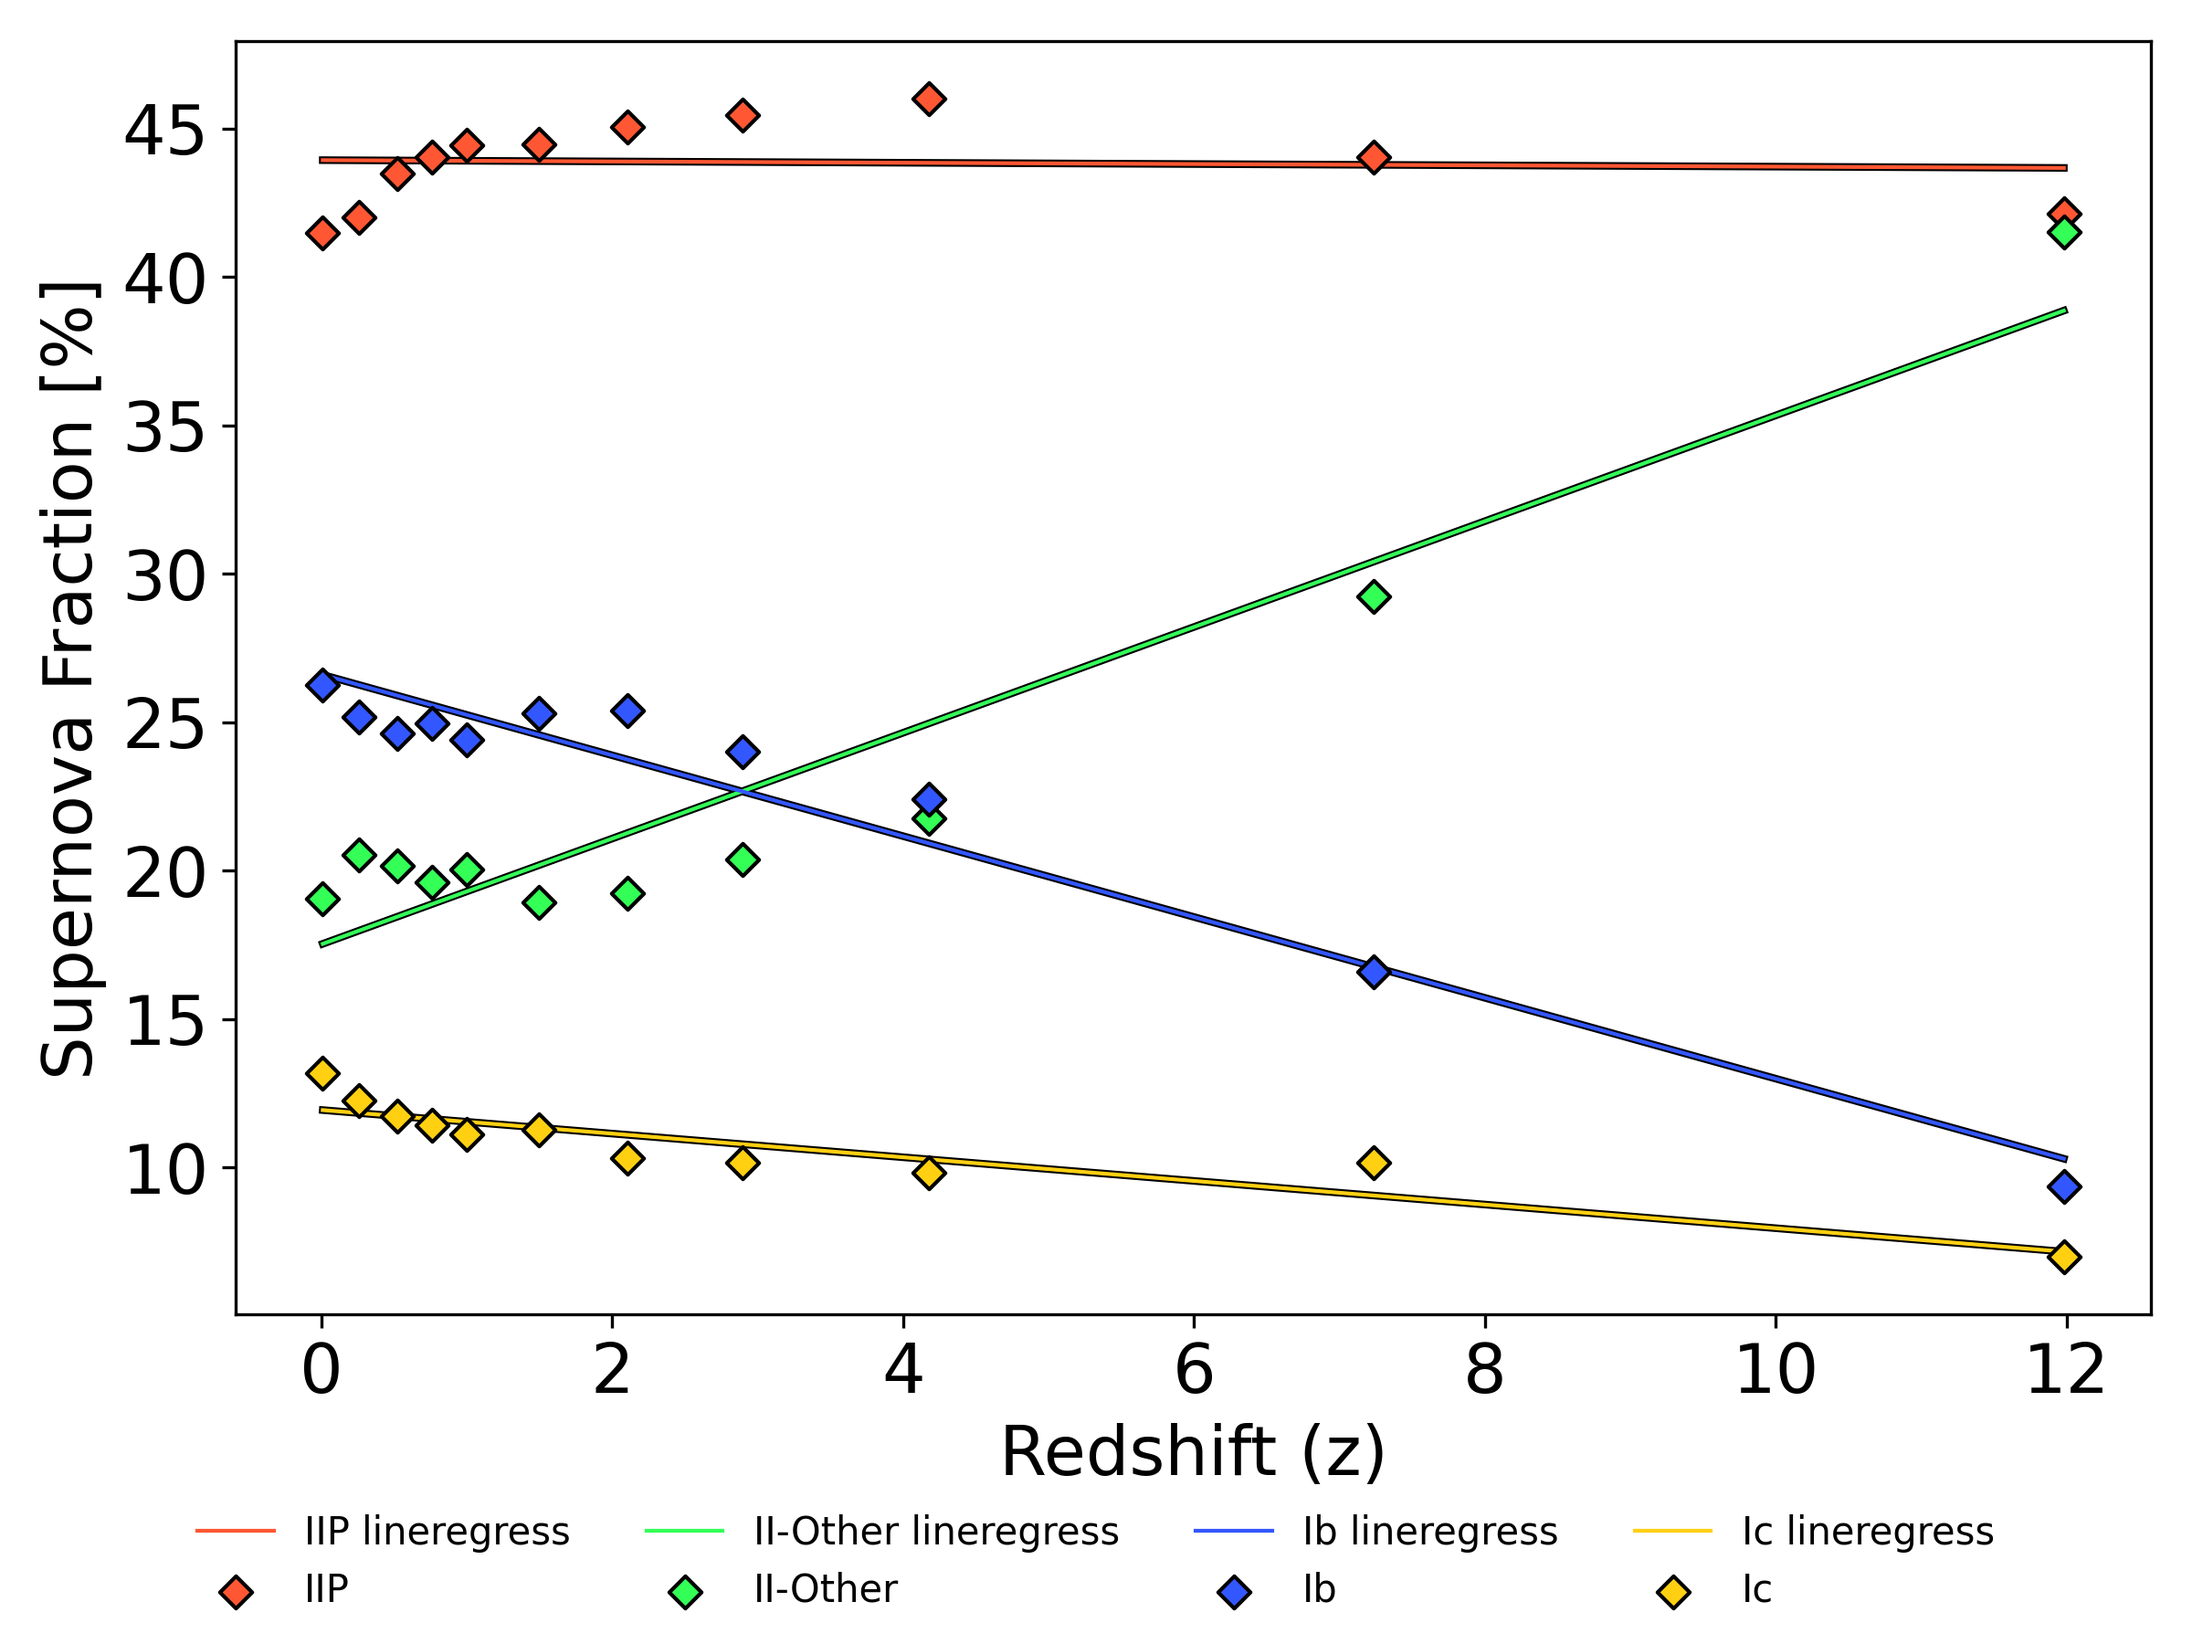
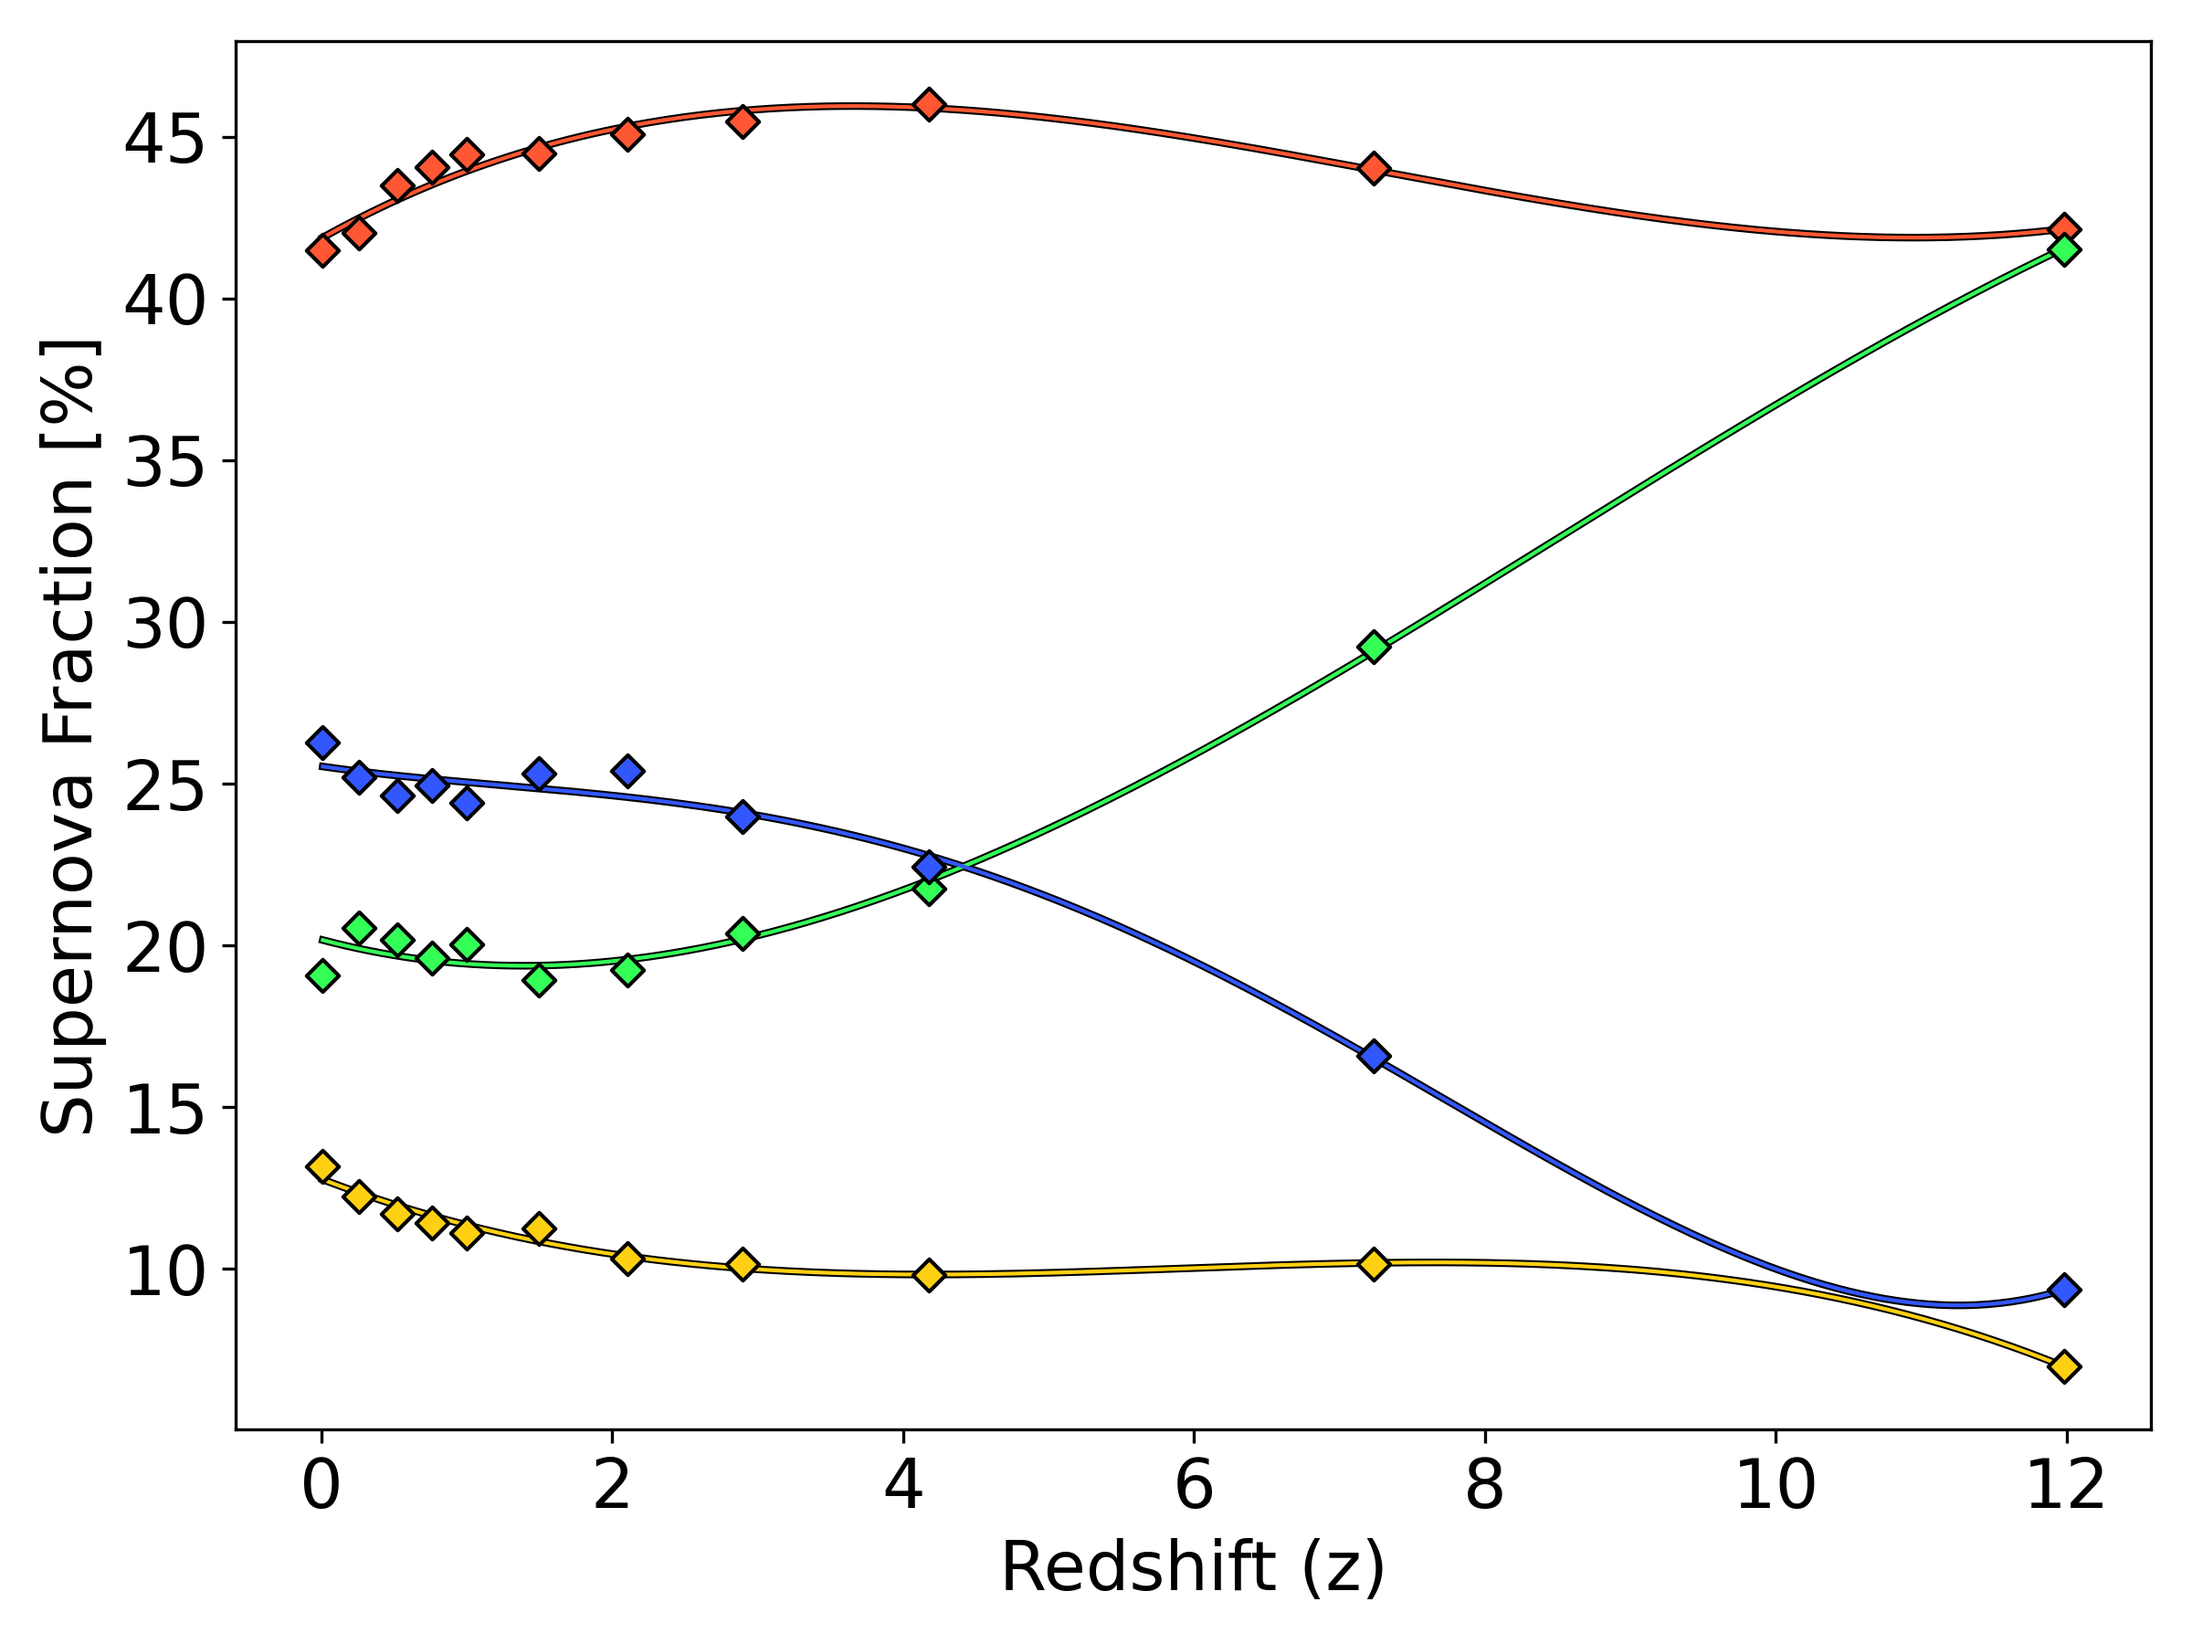
new aic for fractions

diff --git a/halo.py b/halo.py
@@ -41,11 +41,12 @@ from sklearn.metrics import mean_absolute_error,mean_squared_error, root_mean_sq
 from scipy import stats
 import scipy.optimize as sco
 from pysr import PySRRegressor
+from itertools import combinations
 
 from Helpers.AICHelper import AICHelper
 from Helpers.PolyHelper import PolyHelper
 
-aich = AICHelper()
+aic = AICHelper()
 poly = PolyHelper()
 
 base = os.getcwd()
@@ -349,38 +350,16 @@ def run_cosmic():
         #slope, intercept, r, p, std_err = stats.linregress(z, ratio)
         #regress = linear(z, slope, intercept)
 
-        x_aic, y_aic = apply_aic(x, y, e)
-
-        p1 = np.polyfit(x, y, 1)
-        p2 = np.polyfit(x, y, 2)
-        p3 = np.polyfit(x, y, 3)
-        p4 = np.polyfit(x, y, 4)
-
-        p1_fit = poly.polynomialCalc(p1, x_lin)
-        p2_fit = poly.polynomialCalc(p2, x_lin)
-        p3_fit = poly.polynomialCalc(p3, x_lin)
-        p4_fit = poly.polynomialCalc(p4, x_lin)
+        x_aic, y_aic = aic.apply_aic(x, y, e)
 
         ax.errorbar(z, ratio, yerr=err, color='black', fmt='D', capsize=5, zorder=30)
         ax.scatter(z, ratio, label=sn, color=colors[idx], marker='D', edgecolors='black', zorder=40)
         
         #ax.plot(z, regress, color='black', linewidth=2, zorder=10) 
         #ax.plot(z, regress, color=colors[idx], linewidth=1, zorder=20, label=f"{sn} lineregress") 
-        """
-        #ax.plot(x_lin, y_pred, color=colors[idx], linewidth=1, zorder=40, label=f"{sn} PySr") 
-        #ax.plot(x_lin, y_pred, color='black', linewidth=2, zorder=30) 
-
-        #ax.plot(x_lin, y_c3, color=colors1[idx], linewidth=2, zorder=20, label=f"{sn} 3") 
-        #ax.plot(x_lin, y_c5, color=colors2[idx], linewidth=2, zorder=20, label=f"{sn} 5") 
-        #ax.plot(x_lin, y_c8, color=colors3[idx], linewidth=2, zorder=20, label=f"{sn} 8") 
-        #ax.plot(x_lin, y_c8, color='black', linewidth=3, zorder=10, label=f"{sn} 8")
-        """
 
         ax.plot(x_aic, y_aic, color=colors[idx], linewidth=1, zorder=20, label=f"{sn} aic") 
         ax.plot(x_aic, y_aic, color='black', linewidth=2, zorder=10) 
-        ax.plot(x_lin, p2_fit, color=colors[idx], linewidth=1, zorder=20, label=f"{sn} aic 2") 
-        ax.plot(x_lin, p3_fit, color=colors[idx], linewidth=1, zorder=20, label=f"{sn} aic 3") 
-        #ax.plot(x_lin, p4_fit, color=colors[idx], linewidth=1, zorder=20, label=f"{sn} aic 4") 
 
         # calculate average across all redshifts
         sn_ratio = np.mean(ratio)
@@ -390,31 +369,34 @@ def run_cosmic():
         
     ax.set_xlabel("Redshift (z)", fontsize=18)
     ax.set_ylabel("Supernova Fraction [%]", fontsize=18)
-    ax.set_ylim(0,100)
+    #ax.set_ylim(0,100)
     ax.tick_params(axis='both', labelsize=18)
 
     handles, labels = ax.get_legend_handles_labels()
-    fig.legend(handles, labels, loc="lower center", ncol=len(sn_type))
-    fig.tight_layout(rect=[0, 0.2, 1, 1])
-    fig.savefig(f"Data/Images/TNG/ratio/mass/cosmic.png", dpi=300)
+    fig.legend(handles, labels, loc="lower center", ncol=len(sn_type), fontsize=18)
+    fig.tight_layout(rect=[0, 0.3, 1, 1])
+    fig.savefig(f"Data/Images/TNG/ratio/mass/cosmic_halo.png", dpi=300)
     return 0
 
-
-def apply_aic(x, y, errs):
+'''
+def apply_aic(x, y, errs, additional_checks=False):
     # Maximum order of magnitude is 4 (quartic)
-    prevCoeffs = [0, 0, 0, 0, 0]
-    prevErrCoeffs = [0, 0, 0, 0, 0]
     x_plot = np.linspace(min(x), max(x), 300)
-    selectedOrder = 1
 
     # set up first aic 
     # linear 
     p0 = np.polyfit(x, y, 1)
     initial = poly.polynomialCalc(p0, x)
     rss = aich.rss(y, initial)
+    max_aic = aich.aic(2, len(y), rss)
     prev_aic = aich.aic(2, len(y), rss)
     prev_plot = poly.polynomialCalc(p0, x_plot)
 
+    selected_plot = prev_plot
+    aic_values = []
+    aic_values.append(max_aic)
+
+    final_order = 1
     for order in range(2,5):
         # initial guess with polyfit
         coeffs = np.polyfit(x, y, order)
@@ -427,18 +409,62 @@ def apply_aic(x, y, errs):
         rss = aich.rss(y, poly_values)
         aic = aich.aic(order + 1, len(y), rss)
         prob = aich.probability(prev_aic, aic)
+        aic_values.append(aic)
         
-        print(f"    Current Order {order}\n       Simple:  {prev_aic} \n       Complex:  {aic} \n       Prob:  {prob}")
+        #print(f"    Current Order {order}\n       Simple:  {max_aic} \n       Complex:  {aic} \n       Prob:  {prob}")
 
         if prob > 0.95:
             # reject complex model 
-            return x_plot, prev_plot
+            final_order = order - 1
+            pass
+            #return x_plot, prev_plot
         else:
             # accept complex model, move on 
+            final_order = order
             prev_aic = aic
-            prev_plot = poly_plot
+            selected_plot = poly_plot
 
-    return x_plot, poly_plot
+    if additional_checks == True:
+        # check more combinations than just against the linear fit
+        for i, j in combinations(range(len(aic_values)), 2):
+            max_a = aic_values[i]
+            min_a = aic_values[j]
+            prob = aich.probability(max_a, min_a)
+            #print(f'Order:{i+1}, {max_a}, Order:{j+1}, {min_a}, Prob:{prob}')  # apply your formula here
+
+            if prob < 0.95:
+                # check against higher order
+                prob = aich.probability(aic_values[j], aic_values[j+1])
+                if prob < 0.95:
+                    # accept as new again
+                    coeffs = np.polyfit(x, y, j+2)
+                    selected_plot = poly.polynomialCalc(coeffs, x_plot)
+                    final_order = j+2
+                    #print(f'Accepted order - {j+2}')
+                else:
+                    # accept current j as the new order 
+                    coeffs = np.polyfit(x, y, j+1)
+                    selected_plot = poly.polynomialCalc(coeffs, x_plot)
+                    final_order = j+1
+                    #print(f'Accepted order - {j+1}')
+                break
+                
+
+            # check higher orders against original
+            if (j-i > 1) and (prob < 0.95):
+                # order difference is greater than 1, and probability is good
+                # check the higher order against one lower to make sure it is better
+                prob = aich.probability(aic_values[i+1], min_a)
+                if prob < 0.95:
+                    # accept this as the new order 
+                    coeffs = np.polyfit(x, y, j+1)
+                    selected_plot = poly.polynomialCalc(coeffs, x_plot)
+                    final_order = j+1
+                    #print(f'Accepted order - {j+1}')
+                    break
+
+    print(f'Final Order: {final_order}')
+    return x_plot, selected_plot
 
     """
     probs = []
@@ -487,6 +513,7 @@ def apply_aic(x, y, errs):
     """
 
     return coeffs, errCoeffs, selectedOrder, poly_plot, xPlot
+'''
 
 #run_redshift()
 run_cosmic()

diff --git a/Helpers/AICHelper.py b/Helpers/AICHelper.py
@@ -5,10 +5,12 @@ Once AIC values have been determined, generate a probability based on two AIC re
 
 # imports
 import numpy as np
+from Helpers.PolyHelper import PolyHelper
+from itertools import combinations
+poly = PolyHelper()
 
 # region AIC Helper
 class AICHelper():
-
     def __init__(self):
         pass
     
@@ -43,3 +45,90 @@ class AICHelper():
         if exponent > 709:
             return 1e10
         return np.exp(exponent)
+    
+    def apply_aic(self, x, y, errs=0, additional_checks=False):
+        # Maximum order of magnitude is 4 (quartic)
+        x_plot = np.linspace(min(x), max(x), 300)
+
+        # set up first aic as linear 
+        p0 = np.polyfit(x, y, 1)
+        initial = poly.polynomialCalc(p0, x)
+        rss = self.rss(y, initial)
+        max_aic = self.aic(2, len(y), rss)
+        prev_aic = self.aic(2, len(y), rss)
+        prev_plot = poly.polynomialCalc(p0, x_plot)
+        
+        # other variables
+        selected_plot = prev_plot
+        aic_values = []
+        aic_values.append(max_aic)
+        final_order = 1
+
+        for order in range(2,5):
+            # initial guess with polyfit
+            coeffs = np.polyfit(x, y, order)
+            
+            # determine polynomial values
+            poly_values = poly.polynomialCalc(coeffs, x)
+            poly_plot = poly.polynomialCalc(coeffs, x_plot)
+
+            # apply AIC to determine best order
+            rss = self.rss(y, poly_values)
+            aic = self.aic(order + 1, len(y), rss)
+            prob = self.probability(prev_aic, aic)
+            aic_values.append(aic)
+            
+            #print(f"    Current Order {order}\n       Simple:  {max_aic} \n       Complex:  {aic} \n       Prob:  {prob}")
+
+            if prob > 0.95:
+                # reject complex model 
+                final_order = order - 1
+                pass
+                #return x_plot, prev_plot
+            else:
+                # accept complex model, move on 
+                final_order = order
+                prev_aic = aic
+                selected_plot = poly_plot
+
+        if additional_checks == True:
+            # check more combinations than just against the linear fit
+            for i, j in combinations(range(len(aic_values)), 2):
+                max_a = aic_values[i]
+                min_a = aic_values[j]
+                prob = self.probability(max_a, min_a)
+                #print(f'Order:{i+1}, {max_a}, Order:{j+1}, {min_a}, Prob:{prob}')  # apply your formula here
+
+                if prob < 0.95:
+                    # check against higher order
+                    prob = self.probability(aic_values[j], aic_values[j+1])
+                    if prob < 0.95:
+                        # accept as new again
+                        coeffs = np.polyfit(x, y, j+2)
+                        selected_plot = poly.polynomialCalc(coeffs, x_plot)
+                        final_order = j+2
+                        #print(f'Accepted order - {j+2}')
+                    else:
+                        # accept current j as the new order 
+                        coeffs = np.polyfit(x, y, j+1)
+                        selected_plot = poly.polynomialCalc(coeffs, x_plot)
+                        final_order = j+1
+                        #print(f'Accepted order - {j+1}')
+                    break
+                    
+
+                # check higher orders against original
+                if (j-i > 1) and (prob < 0.95):
+                    # order difference is greater than 1, and probability is good
+                    # check the higher order against one lower to make sure it is better
+                    prob = self.probability(aic_values[i+1], min_a)
+                    if prob < 0.95:
+                        # accept this as the new order 
+                        coeffs = np.polyfit(x, y, j+1)
+                        selected_plot = poly.polynomialCalc(coeffs, x_plot)
+                        final_order = j+1
+                        #print(f'Accepted order - {j+1}')
+                        break
+
+        print(f'Final Order: {final_order}')
+        return x_plot, selected_plot

diff --git a/tng.py b/tng.py
@@ -13,6 +13,9 @@ import astropy.units as u
 from Objects.BPASSAnalysis import BPASSAnalysis
 from Objects.BPASSDataFormatter import BPASSDataFormatter
 from Objects.IMF import IMF
+from Helpers.AICHelper import AICHelper
+aic = AICHelper()
+
 from concurrent.futures import ThreadPoolExecutor, as_completed
 from tqdm import tqdm
 from multiprocessing import RLock
@@ -953,14 +956,19 @@ for idx, item in enumerate(test_dict.items()):
     slope, intercept, r, p, std_err = stats.linregress(rev_redshifts, y)
     mymodel = list(map(myfunc, x))
 
-    ax_ratio.plot(x, mymodel, color='black',  linewidth=2, zorder=20)
-    ax_ratio.plot(x, mymodel, color=sn_colours[idx], label=f"{name} lineregress", linewidth=1, zorder=30)
+    x_aic, y_aic = aic.apply_aic(rev_redshifts, y)
+    ax_ratio.plot(x_aic, y_aic, color=sn_colours[idx], linewidth=1, zorder=30, label=f"{name} AIC")
+    ax_ratio.plot(x, y_aic, color='black',  linewidth=2, zorder=20)
+
+    #ax_ratio.plot(x, mymodel, color='black',  linewidth=2, zorder=20)
+    #ax_ratio.plot(x, mymodel, color=sn_colours[idx], label=f"{name} lineregress", linewidth=1, zorder=30)
     #ax_ratio.errorbar(rev_redshifts, y, yerr=std_error, color='black', fmt='D', capsize=5, zorder=30)
     ax_ratio.scatter(rev_redshifts, y, label=name, color=sn_colours[idx], marker='D', edgecolors='black', zorder=40)
 
-plt_labels(fig_ratio, ax_ratio, 4, 0.07)
+#plt_labels(fig_ratio, ax_ratio, 4, 0.07)
+fig_ratio.tight_layout(rect=[0, 0, 1, 1])
 fig_ratio.savefig("Data/Images/TNG/final/cosmic/cosmic_ratio.png", dpi=300)
 print('total', sum(ratios))
 
-for group in zip(*fracs):
-    print(" & ".join(str(x) for x in group))
+#for group in zip(*fracs):
+    #print(" & ".join(str(x) for x in group))
